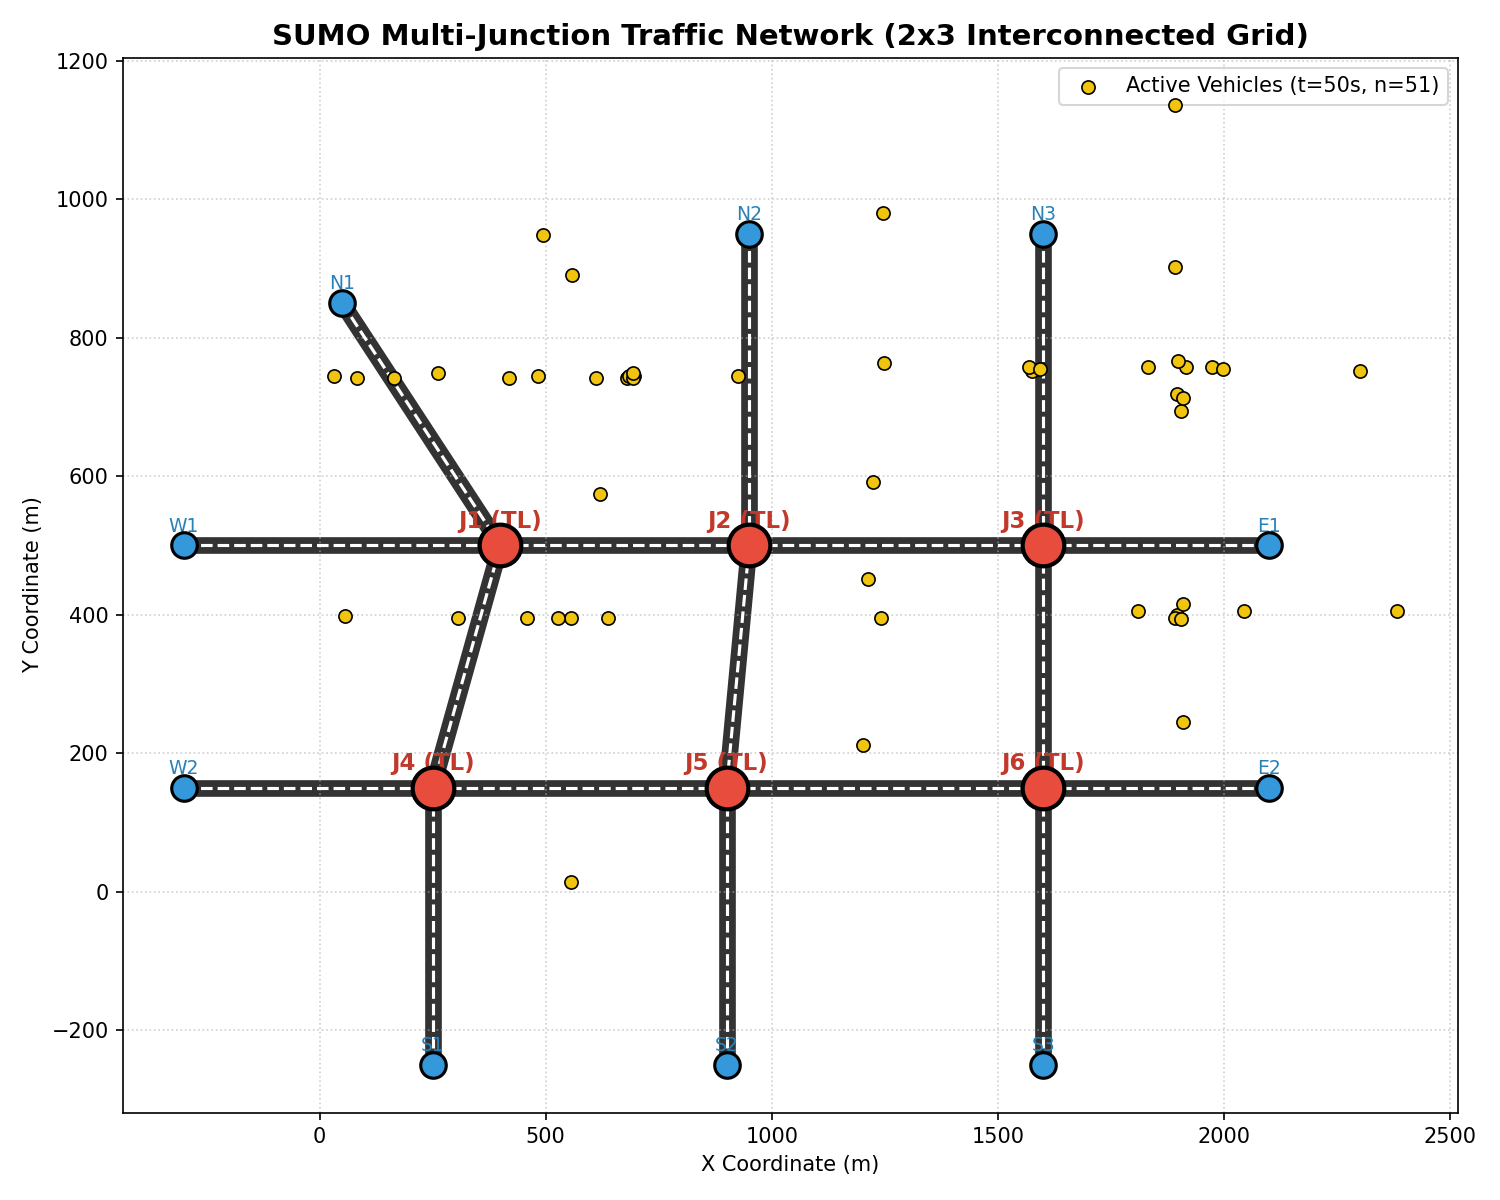
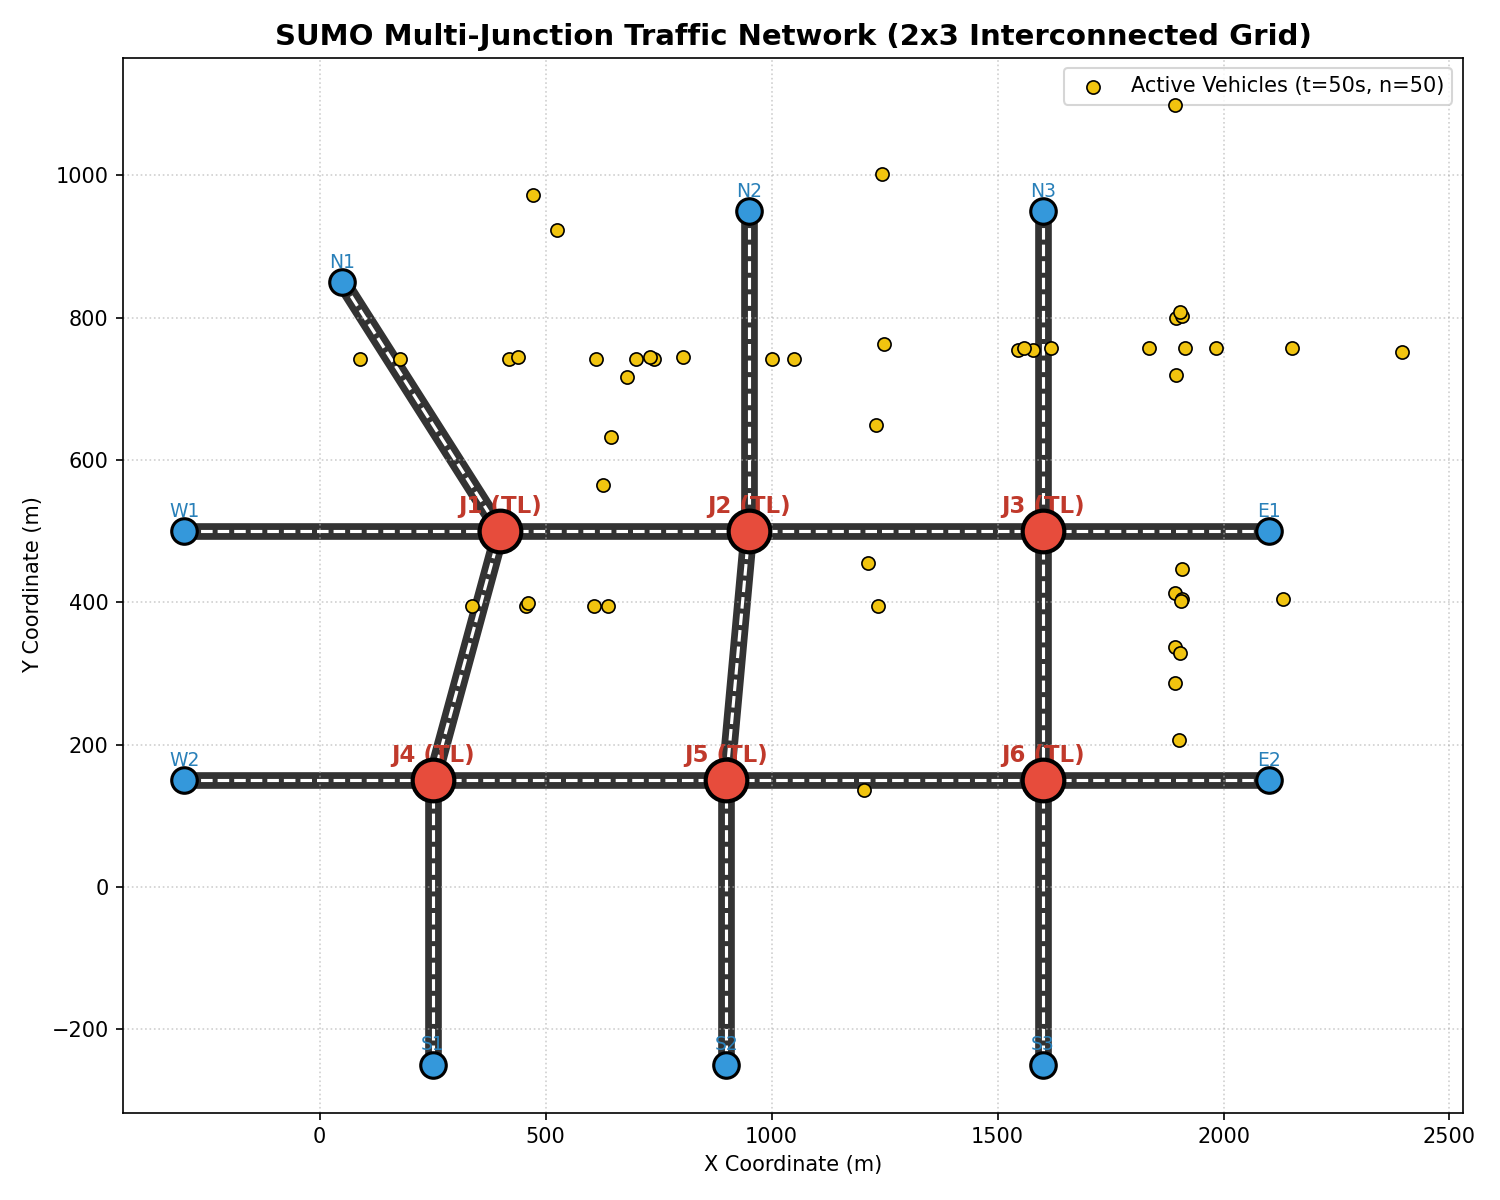
vechiles upadted

diff --git a/sumo/verify_vehicle_visuals.py b/sumo/verify_vehicle_visuals.py
@@ -1,0 +1,55 @@
+import traci
+import time
+import os
+
+sumo_cmd = [
+    "sumo-gui",
+    "-c", "multi_junction.sumocfg",
+    "--gui-settings-file", "gui-settings.cfg",
+    "--start",
+    "--quit-on-end",
+    "--delay", "0"
+]
+
+print("Starting verification simulation with SUMO-GUI...")
+traci.start(sumo_cmd)
+
+# Set standard scheme
+try:
+    traci.gui.setSchema("View #0", "standard")
+except Exception as e:
+    print("Schema note:", e)
+
+# Track vehicle types captured
+captured_types = set()
+types_to_find = {"car_silver", "car_red", "car_blue", "car_suv", "van_white", "city_bus", "coach_bus", "delivery_truck", "heavy_truck", "motorcycle"}
+
+# Run 400 steps (40s simulation time)
+for step in range(400):
+    traci.simulationStep()
+    vehs = traci.vehicle.getIDList()
+    
+    # Capture junction overview around step 150
+    if step == 150:
+        traci.gui.setOffset("View #0", 750.0, 500.0)
+        traci.gui.setZoom("View #0", 500.0)
+        time.sleep(0.1)
+        traci.gui.screenshot("View #0", "multi_junction_traffic_stream.png")
+        print("Captured multi_junction_traffic_stream.png")
+        
+    # Capture closeups of diverse vehicle types
+    if step >= 100:
+        for vid in vehs:
+            vtype = traci.vehicle.getTypeID(vid)
+            if vtype in types_to_find and vtype not in captured_types:
+                x, y = traci.vehicle.getPosition(vid)
+                traci.gui.setOffset("View #0", x, y)
+                traci.gui.setZoom("View #0", 1400.0)
+                time.sleep(0.1)
+                filename = f"veh_{vtype}.png"
+                traci.gui.screenshot("View #0", filename)
+                captured_types.add(vtype)
+                print(f"Captured {filename} at ({x:.1f}, {y:.1f})")
+
+traci.close()
+print(f"Verification complete! Captured types: {captured_types}")
